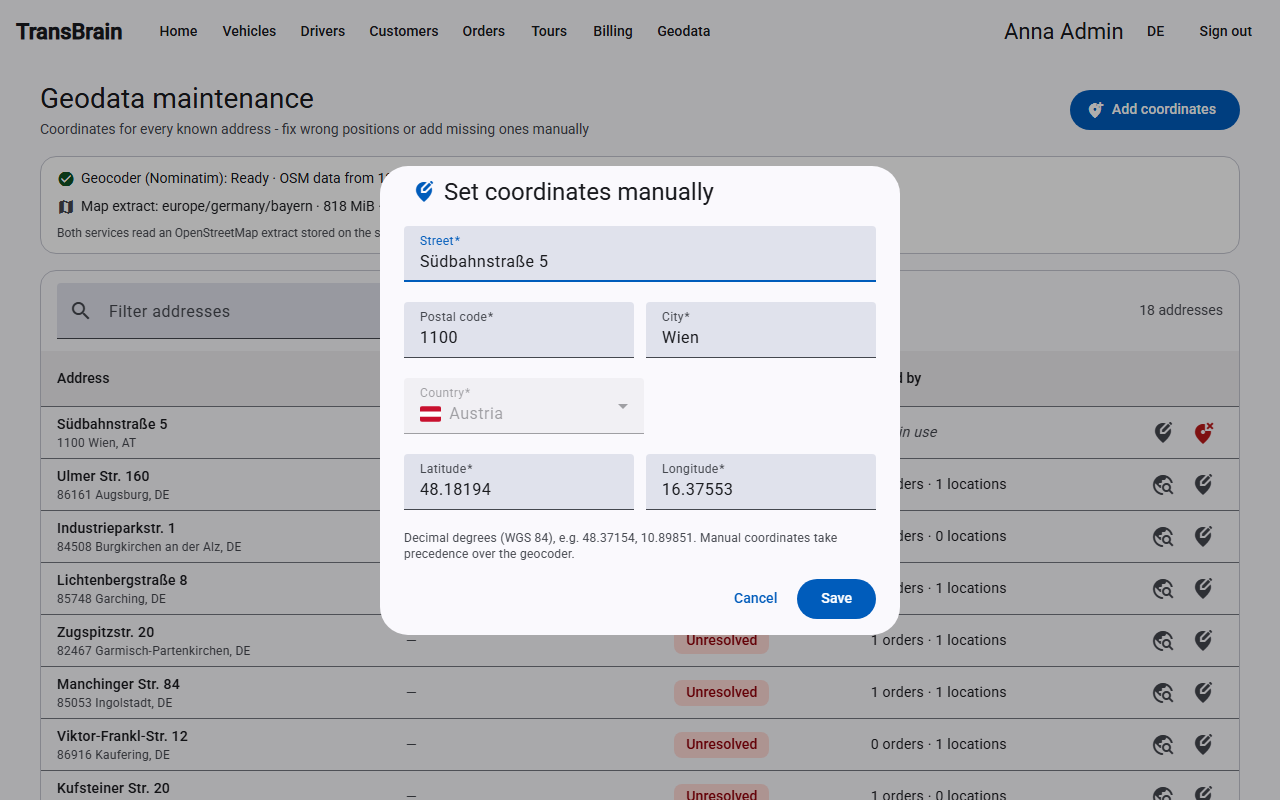
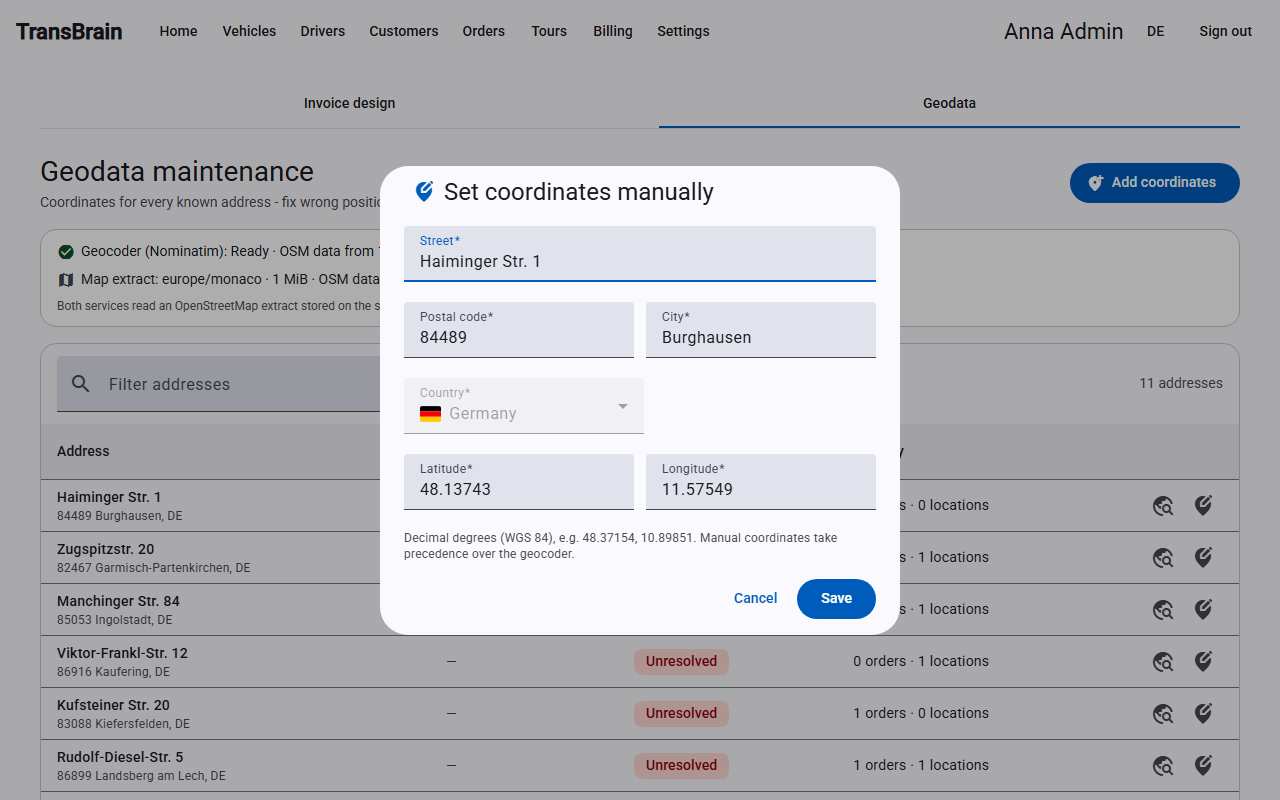
feat(web,vueweb): move invoice design and geodata into a settings tab
One nav entry fewer: both pages join a shared Einstellungen shell with
tabs at /settings/invoice-design and /settings/geodata, following the
maintenance-area pattern. Old top-level URLs redirect. Access rules are
unchanged: the designer still needs masterData.write, geodata any
signed-in user. Operator guides, screenshots and changelog updated.

diff --git a/src/TransBrain.Web/src/app/app.routes.ts b/src/TransBrain.Web/src/app/app.routes.ts
@@ -38,6 +38,8 @@ const loadInvoiceDesign = () =>
 const loadHome = () => import('./home/home.component').then((m) => m.HomeComponent);
 const loadGeodataList = () =>
     import('./geodata/geodata-list.component').then((m) => m.GeodataListComponent);
+const loadSettingsShell = () =>
+    import('./settings/settings-shell.component').then((m) => m.SettingsShellComponent);
 const loadMaintenance = () =>
     import('./maintenance/maintenance.component').then((m) => m.MaintenanceComponent);
 const loadMaintenanceShell = () =>
@@ -159,14 +161,28 @@ export const routes: Routes = [
         loadComponent: loadInvoiceDetail,
         canActivate: [requireAuthentication],
     },
-    // Readable by every signed-in role; the write controls inside are gated on masterData.write.
-    { path: 'geodata', loadComponent: loadGeodataList, canActivate: [requireAuthentication] },
-    // The design page is an editor through and through - saving and previewing both need the
-    // API's MasterDataWrite policy - so it is guarded like the other admin-only editors.
+    // The Einstellungen area bundles the tenant-level configuration pages under one tab bar.
+    // The shell only needs a signed-in user: the geodata list stays readable by every role,
+    // matching the API's read policy, while the design page is an editor through and through -
+    // saving and previewing both need the API's MasterDataWrite policy - so it keeps its
+    // admin-only guard like the other editors.
     {
-        path: 'invoice-design',
-        loadComponent: loadInvoiceDesign,
-        canActivate: [requireCapability('masterData.write')],
+        path: 'settings',
+        loadComponent: loadSettingsShell,
+        canActivate: [requireAuthentication],
+        children: [
+            { path: '', pathMatch: 'full', redirectTo: 'invoice-design' },
+            {
+                path: 'invoice-design',
+                loadComponent: loadInvoiceDesign,
+                canActivate: [requireCapability('masterData.write')],
+            },
+            {
+                path: 'geodata',
+                loadComponent: loadGeodataList,
+                canActivate: [requireAuthentication],
+            },
+        ],
     },
     // The global Wartung area is system-admin territory: the shell asks which tenant to work
     // on, then offers backup/restore, the import wizard, its history and the data export — all
@@ -203,4 +219,8 @@ export const routes: Routes = [
     // bookmarks working. Order matters: 'import/verlauf' must match before 'import'.
     { path: 'import/verlauf', redirectTo: '/maintenance/import/verlauf' },
     { path: 'import', redirectTo: '/maintenance/import' },
+    // Rechnungsdesign and the geodata maintenance lived at the top level before they moved into
+    // the Einstellungen area; keep old bookmarks working.
+    { path: 'invoice-design', redirectTo: '/settings/invoice-design' },
+    { path: 'geodata', redirectTo: '/settings/geodata' },
 ];

diff --git a/src/TransBrain.VueWeb/src/main.ts b/src/TransBrain.VueWeb/src/main.ts
@@ -29,6 +29,7 @@ import InvoiceForm from './views/InvoiceForm.vue';
 import InvoiceDetail from './views/InvoiceDetail.vue';
 import InvoiceDesign from './views/InvoiceDesign.vue';
 import Geodata from './views/Geodata.vue';
+import SettingsShell from './views/SettingsShell.vue';
 import ImportWizard from './views/ImportWizard.vue';
 import ImportHistory from './views/ImportHistory.vue';
 import ExportPage from './views/ExportPage.vue';
@@ -75,11 +76,20 @@ const router = createRouter({
         // No capability: a viewer may look. The issue/pay/cancel buttons inside are gated
         // individually on dispatch.write.
         { path: '/invoices/:id', component: InvoiceDetail },
+        // The Einstellungen area bundles the tenant-level configuration pages under one tab bar.
         // The designer edits the tenant's company data and letterhead - master data maintenance,
-        // admin-only like the export (the API's PUT and preview demand MasterDataWrite).
-        { path: '/invoice-design', component: InvoiceDesign, meta: { capability: 'masterData.write' } },
-        // Readable by every signed-in role; the write controls inside are gated on masterData.write.
-        { path: '/geodata', component: Geodata },
+        // admin-only like the export (the API's PUT and preview demand MasterDataWrite). The
+        // geodata list stays readable by every signed-in role; the write controls inside are
+        // gated on masterData.write.
+        {
+            path: '/settings',
+            component: SettingsShell,
+            children: [
+                { path: '', redirect: '/settings/invoice-design' },
+                { path: 'invoice-design', component: InvoiceDesign, meta: { capability: 'masterData.write' } },
+                { path: 'geodata', component: Geodata },
+            ],
+        },
         // The global Wartung area bundles the system tooling under one tab bar: backup/restore
         // plus the import wizard, its history and the export. All of it is cross-tenant work on
         // /api/system/... and demands the system.maintenance capability, which only the
@@ -98,6 +108,10 @@ const router = createRouter({
         // old bookmarks working.
         { path: '/import', redirect: '/maintenance/import' },
         { path: '/import/verlauf', redirect: '/maintenance/import/verlauf' },
+        // Rechnungsdesign and the geodata maintenance lived at the top level before they moved
+        // into the Einstellungen area; keep old bookmarks working.
+        { path: '/invoice-design', redirect: '/settings/invoice-design' },
+        { path: '/geodata', redirect: '/settings/geodata' },
         { path: '/callback', component: AuthCallback },
     ],
 });

diff --git a/src/TransBrain.Web/src/app/settings/settings-shell.component.ts b/src/TransBrain.Web/src/app/settings/settings-shell.component.ts
@@ -1,0 +1,64 @@
+import { ChangeDetectionStrategy, Component, inject } from '@angular/core';
+import { MatTabsModule } from '@angular/material/tabs';
+import { RouterLink, RouterLinkActive, RouterOutlet } from '@angular/router';
+import { SessionService } from '../auth/session.service';
+import { I18nService } from '../i18n/i18n.service';
+
+/**
+ * Shell of the Einstellungen (settings) area: the tenant-level configuration pages that used to
+ * sit as separate toolbar entries. One tab per page — the invoice design editor stays admin-only
+ * like its route guard, so its tab only shows with masterData.write; the geodata maintenance is
+ * readable by every signed-in role, so its tab always shows.
+ */
+@Component({
+    selector: 'app-settings-shell',
+    changeDetection: ChangeDetectionStrategy.OnPush,
+    imports: [MatTabsModule, RouterLink, RouterLinkActive, RouterOutlet],
+    template: `
+        <div class="shell">
+            <nav mat-tab-nav-bar [tabPanel]="panel">
+                @if (session.can('masterData.write')) {
+                    <a
+                        mat-tab-link
+                        routerLink="/settings/invoice-design"
+                        routerLinkActive
+                        #invoiceDesignLink="routerLinkActive"
+                        [routerLinkActiveOptions]="{ exact: true }"
+                        [active]="invoiceDesignLink.isActive"
+                        data-testid="settings-tab-invoice-design"
+                    >
+                        {{ i18n.t('settings.tabs.invoiceDesign') }}
+                    </a>
+                }
+                <a
+                    mat-tab-link
+                    routerLink="/settings/geodata"
+                    routerLinkActive
+                    #geodataLink="routerLinkActive"
+                    [routerLinkActiveOptions]="{ exact: true }"
+                    [active]="geodataLink.isActive"
+                    data-testid="settings-tab-geodata"
+                >
+                    {{ i18n.t('settings.tabs.geodata') }}
+                </a>
+            </nav>
+            <mat-tab-nav-panel #panel>
+                <router-outlet />
+            </mat-tab-nav-panel>
+        </div>
+    `,
+    styles: `
+        .shell {
+            max-width: 1200px;
+            margin: 0 auto;
+        }
+
+        nav {
+            margin-bottom: 24px;
+        }
+    `,
+})
+export class SettingsShellComponent {
+    protected readonly i18n = inject(I18nService);
+    protected readonly session = inject(SessionService);
+}

diff --git a/src/TransBrain.VueWeb/src/views/SettingsShell.vue b/src/TransBrain.VueWeb/src/views/SettingsShell.vue
@@ -1,0 +1,43 @@
+<script setup lang="ts">
+import { computed } from 'vue';
+import { useRoute } from 'vue-router';
+import { useAuthStore } from '../stores/auth';
+import { useI18n } from '../i18n';
+
+const auth = useAuthStore();
+const { t } = useI18n();
+const route = useRoute();
+
+// Selection is derived from the path instead of relying on router-link's active matching -
+// the same approach as the Wartung shell.
+const tab = computed(() =>
+    route.path.startsWith('/settings/geodata') ? 'geodata' : 'invoiceDesign',
+);
+</script>
+
+<!--
+    Shell of the Einstellungen (settings) area: the tenant-level configuration pages that used to
+    sit as separate toolbar entries. One tab per page - the invoice design editor stays admin-only
+    like its route guard, so its tab only shows with masterData.write; the geodata maintenance is
+    readable by every signed-in role, so its tab always shows.
+-->
+<template>
+    <div v-if="auth.isAuthenticated">
+        <v-container class="py-0">
+            <v-tabs :model-value="tab" color="primary">
+                <v-tab
+                    v-if="auth.can('masterData.write')"
+                    value="invoiceDesign"
+                    to="/settings/invoice-design"
+                    data-testid="settings-tab-invoice-design"
+                    >{{ t('settings.tabs.invoiceDesign') }}</v-tab
+                >
+                <v-tab value="geodata" to="/settings/geodata" data-testid="settings-tab-geodata">{{
+                    t('settings.tabs.geodata')
+                }}</v-tab>
+            </v-tabs>
+            <v-divider />
+        </v-container>
+        <router-view />
+    </div>
+</template>

diff --git a/src/TransBrain.VueWeb/e2e/invoice-design.spec.ts b/src/TransBrain.VueWeb/e2e/invoice-design.spec.ts
@@ -9,7 +9,8 @@ import { signIn } from './login';
  */
 test('adminUser_editingTheDesignAndPreviewing_showsTheSampleInvoiceAndSaves', async ({ page }) => {
     await signIn(page, 'admin');
-    await page.getByTestId('nav-invoice-design').click();
+    // The Einstellungen tab opens on its first tab, the invoice design editor.
+    await page.getByTestId('nav-settings').click();
     await expect(page.getByRole('heading', { name: 'Invoice design' })).toBeVisible();
 
     const companyName = page.getByTestId('design-companyName');
@@ -29,10 +30,10 @@ test('adminUser_editingTheDesignAndPreviewing_showsTheSampleInvoiceAndSaves', as
 });
 
 test('viewerUser_cannotReachTheInvoiceDesigner', async ({ page }) => {
-    // The designer needs masterData.write like the export: no nav entry for a viewer, and
-    // typing the URL bounces back to the home page.
+    // The designer needs masterData.write like the export: no settings nav entry for a viewer,
+    // and typing the URL (the old top-level one included) bounces back to the home page.
     await signIn(page, 'viewer');
-    await expect(page.getByTestId('nav-invoice-design')).toBeHidden();
+    await expect(page.getByTestId('nav-settings')).toBeHidden();
     await page.goto('/invoice-design');
     await expect(page.getByTestId('home-greeting')).toBeVisible();
     await expect(page.getByRole('heading', { name: 'Invoice design' })).toBeHidden();

diff --git a/src/TransBrain.Web/e2e/invoice-design.spec.ts b/src/TransBrain.Web/e2e/invoice-design.spec.ts
@@ -12,7 +12,8 @@ test('adminUser_editingTheDesignAndPreviewing_rendersAPdfAndSaves', async ({ pag
     const design = page.waitForResponse((response) =>
         response.url().includes('/api/invoice-design'),
     );
-    await page.getByTestId('nav-invoice-design').click();
+    // The Einstellungen tab opens on its first tab, the invoice design editor.
+    await page.getByTestId('nav-settings').click();
     await expect(page.getByRole('heading', { name: 'Invoice design' })).toBeVisible();
     await design;
 
@@ -47,10 +48,10 @@ test('adminUser_editingTheDesignAndPreviewing_rendersAPdfAndSaves', async ({ pag
 });
 
 test('viewerUser_navigatingToInvoiceDesign_isRedirectedHome', async ({ page }) => {
-    // Design writes need masterData.write: a viewer has no nav entry, and a typed URL bounces
-    // back to the home page.
+    // Design writes need masterData.write: a viewer has no settings nav entry, and a typed URL
+    // (the old top-level one included) bounces back to the home page.
     await signIn(page, 'viewer');
-    await expect(page.getByTestId('nav-invoice-design')).toBeHidden();
+    await expect(page.getByTestId('nav-settings')).toBeHidden();
     await page.goto('/invoice-design');
     await expect(page.getByTestId('home-greeting')).toBeVisible();
     await expect(page.getByRole('heading', { name: 'Invoice design' })).toBeHidden();

diff --git a/src/TransBrain.VueWeb/e2e/geodata.spec.ts b/src/TransBrain.VueWeb/e2e/geodata.spec.ts
@@ -7,7 +7,8 @@ function uniqueSuffix(): string {
 }
 
 async function openGeodata(page: Page): Promise<void> {
-    await page.getByTestId('nav-geodata').click();
+    await page.getByTestId('nav-settings').click();
+    await page.getByTestId('settings-tab-geodata').click();
     await expect(page.getByRole('heading', { name: 'Geodata maintenance' })).toBeVisible();
 }
 
@@ -79,10 +80,11 @@ test('invalidLatitude_staysInTheDialog', async ({ page }) => {
 test('viewerUser_onGeodata_seesNoWriteActions', async ({ page }) => {
     await signIn(page, 'viewer');
 
-    // The maintenance page is not offered to a viewer ...
-    await expect(page.getByTestId('nav-geodata')).toHaveCount(0);
+    // The settings area is not offered to a viewer ...
+    await expect(page.getByTestId('nav-settings')).toHaveCount(0);
 
-    // ... but reading it directly works, matching the API's read policy.
+    // ... but reading the geodata page directly works, matching the API's read policy. The old
+    // top-level URL redirects into the settings area.
     await page.goto('/geodata');
     await expect(page.getByRole('heading', { name: 'Geodata maintenance' })).toBeVisible();
     await expect(page.getByTestId('geodata-count')).toBeVisible();

diff --git a/src/TransBrain.Web/e2e/geodata.spec.ts b/src/TransBrain.Web/e2e/geodata.spec.ts
@@ -7,7 +7,8 @@ function uniqueSuffix(): string {
 }
 
 async function openGeodata(page: Page): Promise<void> {
-    await page.getByTestId('nav-geodata').click();
+    await page.getByTestId('nav-settings').click();
+    await page.getByTestId('settings-tab-geodata').click();
     await expect(page.getByRole('heading', { name: 'Geodata maintenance' })).toBeVisible();
 }
 
@@ -79,10 +80,11 @@ test('invalidLatitude_staysInTheDialog', async ({ page }) => {
 test('viewerUser_onGeodata_seesNoWriteActions', async ({ page }) => {
     await signIn(page, 'viewer');
 
-    // The maintenance page is not offered to a viewer ...
-    await expect(page.getByTestId('nav-geodata')).toHaveCount(0);
+    // The settings area is not offered to a viewer ...
+    await expect(page.getByTestId('nav-settings')).toHaveCount(0);
 
-    // ... but reading it directly works, matching the API's read policy.
+    // ... but reading the geodata page directly works, matching the API's read policy. The old
+    // top-level URL redirects into the settings area.
     await page.goto('/geodata');
     await expect(page.getByRole('heading', { name: 'Geodata maintenance' })).toBeVisible();
     await expect(page.getByTestId('geodata-count')).toBeVisible();

diff --git a/src/TransBrain.Web/src/app/i18n/de.ts b/src/TransBrain.Web/src/app/i18n/de.ts
@@ -575,7 +575,6 @@ export const de: Record<keyof typeof en, string> = {
     'tours.route.error.unavailable':
         'Die Routenberechnung ist derzeit nicht verfügbar. Der Routing-Dienst ist nicht konfiguriert oder nicht erreichbar.',
 
-    'nav.geodata': 'Geodaten',
     'nav.maintenance': 'Wartung',
     'maintenance.title': 'Wartung',
     'maintenance.tabs.backup': 'Datensicherung',
@@ -628,7 +627,9 @@ export const de: Record<keyof typeof en, string> = {
     'export.hint':
         'Exportierte Dateien lassen sich über den Reiter „Import“ wieder einspielen – die Spalten werden dabei automatisch zugeordnet.',
     'export.error': 'Der Export ist fehlgeschlagen.',
-    'nav.invoiceDesign': 'Rechnungsdesign',
+    'nav.settings': 'Einstellungen',
+    'settings.tabs.invoiceDesign': 'Rechnungsdesign',
+    'settings.tabs.geodata': 'Geodaten',
     'invoiceDesign.title': 'Rechnungsdesign',
     'invoiceDesign.subtitle':
         'Firmendaten und Gestaltung der Rechnungsdokumente dieses Mandanten – gilt für jedes PDF und jede XRechnung.',

diff --git a/src/TransBrain.VueWeb/src/App.vue b/src/TransBrain.VueWeb/src/App.vue
@@ -33,8 +33,7 @@ function toggleLocale(): void {
                 <v-btn v-if="auth.areas.has('orders')" to="/orders" data-testid="nav-orders">{{ t('nav.orders') }}</v-btn>
                 <v-btn v-if="auth.areas.has('tours')" to="/tours" data-testid="nav-tours">{{ t('nav.tours') }}</v-btn>
                 <v-btn v-if="auth.areas.has('invoices')" to="/invoices" data-testid="nav-invoices">{{ t('nav.invoices') }}</v-btn>
-                <v-btn v-if="auth.can('masterData.write')" to="/invoice-design" data-testid="nav-invoice-design">{{ t('nav.invoiceDesign') }}</v-btn>
-                <v-btn v-if="auth.can('masterData.write')" to="/geodata" data-testid="nav-geodata">{{ t('nav.geodata') }}</v-btn>
+                <v-btn v-if="auth.can('masterData.write')" to="/settings" data-testid="nav-settings">{{ t('nav.settings') }}</v-btn>
                 <v-btn v-if="auth.can('system.maintenance')" to="/maintenance" data-testid="nav-maintenance">{{ t('nav.maintenance') }}</v-btn>
             </template>
             <v-spacer />

diff --git a/src/TransBrain.Web/src/app/i18n/en.ts b/src/TransBrain.Web/src/app/i18n/en.ts
@@ -570,7 +570,6 @@ export const en = {
     'tours.route.error.unavailable':
         'Route planning is currently unavailable. The routing service is not configured or cannot be reached.',
 
-    'nav.geodata': 'Geodata',
     'nav.maintenance': 'Maintenance',
     'maintenance.title': 'Maintenance',
     'maintenance.tabs.backup': 'Backup & restore',
@@ -622,7 +621,9 @@ export const en = {
     'export.hint':
         'Exported files can be played back through the Import tab – the columns are matched automatically.',
     'export.error': 'The export failed.',
-    'nav.invoiceDesign': 'Invoice design',
+    'nav.settings': 'Settings',
+    'settings.tabs.invoiceDesign': 'Invoice design',
+    'settings.tabs.geodata': 'Geodata',
     'invoiceDesign.title': 'Invoice design',
     'invoiceDesign.subtitle':
         "Company data and look of this tenant's invoice documents – used for every PDF and XRechnung.",

diff --git a/src/TransBrain.VueWeb/src/i18n/de.ts b/src/TransBrain.VueWeb/src/i18n/de.ts
@@ -442,7 +442,9 @@ export const de: Record<MessageKey, string> = {
     'orders.charges.deleteFailed': 'Die Zusatzposition konnte nicht gelöscht werden.',
 
     'nav.invoices': 'Abrechnung',
-    'nav.invoiceDesign': 'Rechnungsdesign',
+    'nav.settings': 'Einstellungen',
+    'settings.tabs.invoiceDesign': 'Rechnungsdesign',
+    'settings.tabs.geodata': 'Geodaten',
     'invoices.count': '{count} Rechnungen',
     'invoices.add': 'Rechnung erstellen',
     'invoices.new': 'Neue Rechnung',
@@ -597,7 +599,6 @@ export const de: Record<MessageKey, string> = {
 
     'callback.error': 'Die Anmeldung konnte nicht abgeschlossen werden. Bitte versuchen Sie es erneut.',
 
-    'nav.geodata': 'Geodaten',
     'nav.maintenance': 'Wartung',
     'maintenance.title': 'Wartung',
     'maintenance.tabs.backup': 'Datensicherung',
